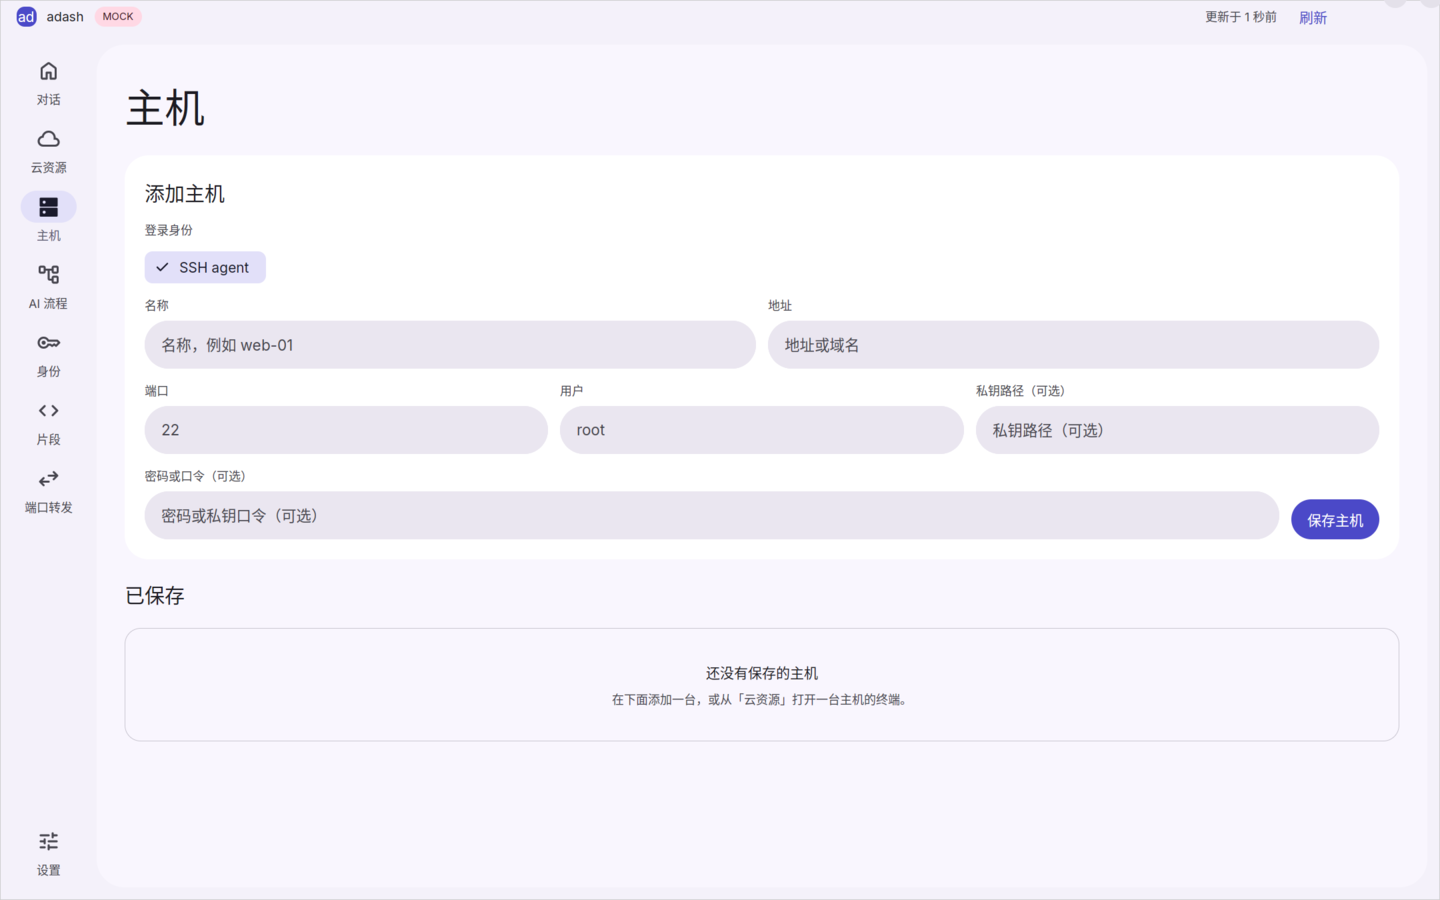
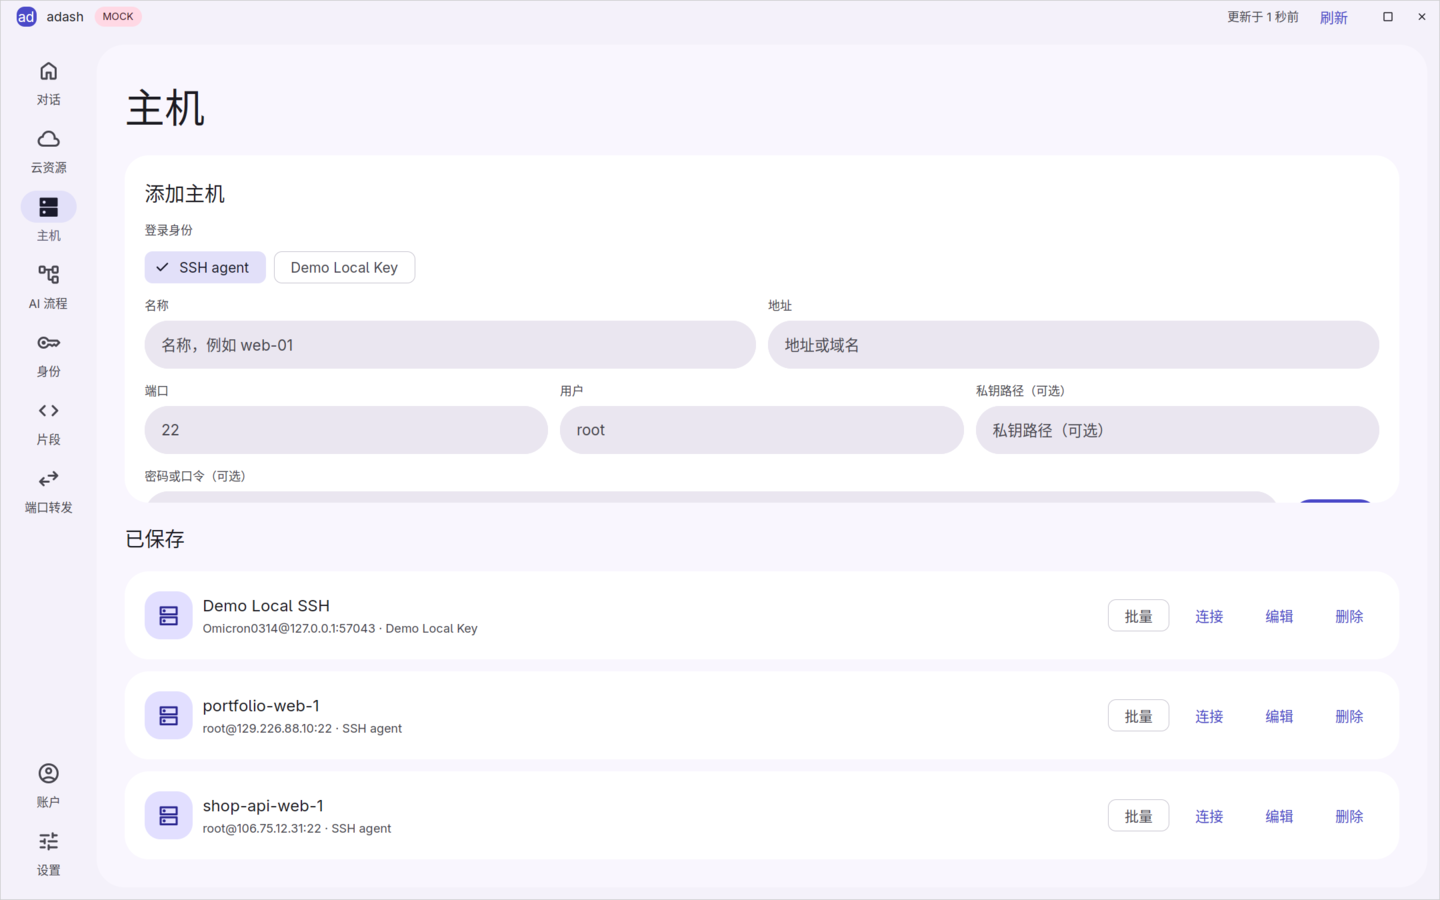
Add a loopback SSH demo service and seeded demo profiles
- start a temporary key-only sshd plus HTTP target on loopback
- seed a demo host, identity, snippets and port-forward rule
- document the shell/files/monitor demo flow

diff --git a/scripts/demo-ssh-service.py b/scripts/demo-ssh-service.py
@@ -1,0 +1,272 @@
+#!/usr/bin/env python3
+"""Start an isolated loopback SSH demo and seed adash's host profile.
+
+The service listens on 127.0.0.1 only, uses a generated temporary host key and
+an ed25519 demo identity, and executes in a dedicated demo directory. It does
+not modify system sshd/accounts. Stop it with --stop.
+"""
+from __future__ import annotations
+
+import argparse
+import base64
+import getpass
+import hashlib
+import json
+import os
+from pathlib import Path
+import shutil
+import signal
+import shlex
+import socket
+import subprocess
+import sys
+import time
+
+DEMO_ID = "demo-local"
+IDENTITY_ID = "demo-identity"
+FORWARD_ID = "demo-http"
+
+
+def data_dir() -> Path:
+    if os.environ.get("ADASH_DATA_DIR"):
+        return Path(os.environ["ADASH_DATA_DIR"])
+    if sys.platform == "win32":
+        base = Path(os.environ.get("LOCALAPPDATA", Path.home() / "AppData/Local"))
+    elif sys.platform == "darwin":
+        base = Path.home() / "Library/Application Support"
+    else:
+        base = Path(os.environ.get("XDG_DATA_HOME", Path.home() / ".local/share"))
+    return base / "adash"
+
+
+def which(name: str, env: str) -> str:
+    configured = os.environ.get(env)
+    found = shutil.which(configured or name)
+    if not found:
+        raise SystemExit(f"{name} not found; set {env} to its executable")
+    return str(Path(found).resolve())
+
+
+def free_port() -> int:
+    with socket.socket() as probe:
+        probe.bind(("127.0.0.1", 0))
+        return probe.getsockname()[1]
+
+
+def stop(pid: int) -> None:
+    try:
+        os.kill(pid, signal.SIGTERM)
+    except ProcessLookupError:
+        return
+    for _ in range(30):
+        try:
+            os.kill(pid, 0)
+        except ProcessLookupError:
+            return
+        time.sleep(0.05)
+
+
+def read_profile(path: Path) -> dict:
+    if not path.exists():
+        return {"hosts": {}, "identities": {}, "snippets": {}, "forwards": {}, "known_hosts": {}, "recent": []}
+    try:
+        data = json.loads(path.read_text())
+    except json.JSONDecodeError as error:
+        raise SystemExit(f"{path} is not valid JSON; refusing to overwrite it: {error}")
+    for key, value in {"hosts": {}, "identities": {}, "snippets": {}, "forwards": {}, "known_hosts": {}, "recent": []}.items():
+        data.setdefault(key, value)
+    return data
+
+
+def write_profile(path: Path, data: dict) -> None:
+    path.parent.mkdir(parents=True, exist_ok=True)
+    temporary = path.with_name(path.name + ".demo-tmp")
+    temporary.write_text(json.dumps(data, ensure_ascii=False, indent=2) + "\n")
+    os.chmod(temporary, 0o600)
+    temporary.replace(path)
+    os.chmod(path, 0o600)
+
+
+def fingerprint(public_key: Path) -> str:
+    parts = public_key.read_text().split()
+    digest = hashlib.sha256(base64.b64decode(parts[1])).digest()
+    return "SHA256:" + base64.b64encode(digest).decode().rstrip("=")
+
+
+def main() -> None:
+    parser = argparse.ArgumentParser(description=__doc__)
+    parser.add_argument("--stop", action="store_true", help="stop the demo sshd/http services")
+    parser.add_argument("--port", type=int, default=0, help="SSH port; 0 chooses a free loopback port")
+    args = parser.parse_args()
+    data = data_dir()
+    demo = data / "demo-ssh"
+    state_path = demo / "service.json"
+    if args.stop:
+        if state_path.exists():
+            try:
+                state = json.loads(state_path.read_text())
+                for key in ("sshd_pid", "http_pid"):
+                    if state.get(key):
+                        stop(int(state[key]))
+            except (json.JSONDecodeError, OSError):
+                pass
+            state_path.unlink(missing_ok=True)
+            print("adash demo SSH stopped")
+        else:
+            print("adash demo SSH is not running")
+        return
+    if state_path.exists():
+        try:
+            state = json.loads(state_path.read_text())
+            if state.get("sshd_pid") and Path(f"/proc/{state['sshd_pid']}").exists():
+                print(f"adash demo SSH already running on 127.0.0.1:{state.get('ssh_port')}")
+                print(f"open 主机 → {state.get('host_name', 'Demo Local SSH')}")
+                return
+        except (json.JSONDecodeError, OSError):
+            pass
+        state_path.unlink(missing_ok=True)
+
+    sshd = which("sshd", "ADASH_TEST_SSHD")
+    keygen = which("ssh-keygen", "ADASH_TEST_SSH_KEYGEN")
+    bash = shutil.which("bash") or shutil.which("sh")
+    shell = shutil.which("sh") or bash
+    sftp = os.environ.get("ADASH_TEST_SFTP_SERVER") or shutil.which("sftp-server")
+    if not sftp:
+        for candidate in [
+            Path(sshd).parent / "sftp-server",
+            Path(sshd).parent.parent / "lib/ssh/sftp-server",
+            Path(sshd).parent.parent / "lib/openssh/sftp-server",
+        ]:
+            if candidate.is_file():
+                sftp = str(candidate)
+                break
+    if not bash or not shell or not sftp:
+        raise SystemExit("bash/sh/sftp-server not found; set ADASH_TEST_SFTP_SERVER")
+    demo.mkdir(parents=True, exist_ok=True)
+    work = demo / "work"
+    for directory in (work, work / "logs"):
+        directory.mkdir(exist_ok=True)
+    (work / "README.md").write_text(
+        "# Demo workspace\n\n这是 adash 演示 SSH 服务的工作目录。\n\n"
+        "- 终端、SFTP、监控和片段都连接到 127.0.0.1 的临时 sshd\n"
+        "- 没有修改系统账号或系统 sshd\n"
+    )
+    (work / "logs" / "app.log").write_text(
+        "2026-11-01 09:00 demo service started\n"
+        "2026-11-01 09:01 GET /health 200\n"
+        "2026-11-01 09:02 order.created #1042\n"
+    )
+    (work / "config.example.json").write_text('{"port": 8080, "region": "cn-bj2", "debug": false}\n')
+    site = demo / "www"
+    site.mkdir(exist_ok=True)
+    (site / "index.html").write_text(
+        "<!doctype html><meta charset=utf-8><title>adash demo</title>"
+        "<h1>adash demo service</h1><p>This page is reached through the demo SSH port forward.</p>"
+    )
+    host_key = demo / "host_ed25519"
+    identity = demo / "identity_ed25519"
+    for path in (host_key,):
+        if not path.exists():
+            subprocess.run([keygen, "-q", "-t", "ed25519", "-N", "", "-f", str(path)], check=True)
+    if not identity.exists():
+        subprocess.run([keygen, "-q", "-t", "ed25519", "-N", "", "-f", str(identity)], check=True)
+    shutil.copyfile(str(identity) + ".pub", demo / "authorized_keys")
+    os.chmod(demo / "authorized_keys", 0o600)
+
+    port = args.port or free_port()
+    http_port = free_port()
+    rc = demo / "bashrc"
+    rc.write_text(
+        "PS1='demo@adash:\\w$ '\n"
+        "cd \"$ADASH_DEMO_WORK\" 2>/dev/null || true\n"
+        "printf '\\033[32madash demo shell\\033[0m  type help for demo commands\\n'\n"
+    )
+    dispatch = demo / "session.sh"
+    dispatch.write_text(
+        f"#!{shell}\n"
+        f"cd {shlex.quote(str(work))} || exit 1\n"
+        f"case \"$SSH_ORIGINAL_COMMAND\" in\n"
+        f"  internal-sftp*) exec {shlex.quote(str(sftp))} -d {shlex.quote(str(work))} ;;\n"
+        f"  \"\") exec {shlex.quote(str(bash))} --noprofile --rcfile {shlex.quote(str(rc))} -i ;;\n"
+        f"  *) exec {shlex.quote(str(shell))} -c \"$SSH_ORIGINAL_COMMAND\" ;;\n"
+        f"esac\n"
+    )
+    os.chmod(dispatch, 0o700)
+    config = demo / "sshd_config"
+    quote = lambda value: '"' + str(value).replace("\\", "\\\\").replace('"', '\\"') + '"'
+    config.write_text(f"""Port {port}
+ListenAddress 127.0.0.1
+HostKey {quote(host_key)}
+PidFile {quote(demo / 'sshd.pid')}
+AuthorizedKeysFile {quote(demo / 'authorized_keys')}
+StrictModes no
+UsePAM no
+PasswordAuthentication no
+KbdInteractiveAuthentication no
+PubkeyAuthentication yes
+AllowUsers {getpass.getuser()}
+AllowTcpForwarding yes
+Subsystem sftp internal-sftp
+ForceCommand {quote(dispatch)}
+LogLevel ERROR
+""")
+    log = (demo / "service.log").open("w")
+    sshd_process = subprocess.Popen(
+        [sshd, "-D", "-e", "-f", str(config)],
+        stdout=log, stderr=log, start_new_session=True,
+    )
+    time.sleep(0.4)
+    if sshd_process.poll() is not None:
+        raise SystemExit(f"temporary sshd failed; see {demo / 'service.log'}")
+    http_process = subprocess.Popen(
+        [sys.executable, "-m", "http.server", str(http_port), "--bind", "127.0.0.1", "--directory", str(site)],
+        stdout=subprocess.DEVNULL, stderr=subprocess.DEVNULL, start_new_session=True,
+    )
+    time.sleep(0.2)
+    if http_process.poll() is not None:
+        http_process = None
+        http_port = 0
+    profile_path = data / "hosts.json"
+    profile = read_profile(profile_path)
+    profile["identities"][IDENTITY_ID] = {
+        "id": IDENTITY_ID, "name": "Demo Local Key", "kind": "PrivateKey",
+        "key_path": str(identity),
+    }
+    profile["hosts"][DEMO_ID] = {
+        "id": DEMO_ID, "name": "Demo Local SSH", "address": "127.0.0.1",
+        "port": port, "username": getpass.getuser(), "identity": IDENTITY_ID,
+    }
+    profile["known_hosts"][f"[127.0.0.1]:{port}"] = fingerprint(host_key.with_name(host_key.name + ".pub"))
+    snippets = {
+        "demo-uptime": ("Demo: 运行时间", "uptime"),
+        "demo-files": ("Demo: 工作目录", "ls -la"),
+        "demo-disk": ("Demo: 磁盘", "df -h"),
+        "demo-health": ("Demo: 健康检查", "printf 'demo service: healthy\\n'"),
+    }
+    for snippet_id, (name, command) in snippets.items():
+        profile["snippets"].setdefault(snippet_id, {"id": snippet_id, "name": name, "command": command})
+    if http_process is not None:
+        bind_port = free_port()
+        profile["forwards"][FORWARD_ID] = {
+            "id": FORWARD_ID, "name": "Demo HTTP", "host_id": DEMO_ID,
+            "direction": "Local", "bind_port": bind_port,
+            "target_host": "127.0.0.1", "target_port": http_port,
+        }
+    profile["recent"] = [DEMO_ID] + [item for item in profile.get("recent", []) if item != DEMO_ID]
+    write_profile(profile_path, profile)
+    state_path.write_text(json.dumps({
+        "sshd_pid": sshd_process.pid,
+        "http_pid": http_process.pid if http_process else None,
+        "ssh_port": port,
+        "http_port": http_port,
+        "host_name": profile["hosts"][DEMO_ID]["name"],
+    }, indent=2) + "\n")
+    print(f"adash demo SSH ready on 127.0.0.1:{port}")
+    print(f"host: Demo Local SSH · workspace: {work}")
+    if http_process is not None:
+        print(f"port forward: Demo HTTP · local 127.0.0.1:{profile['forwards'][FORWARD_ID]['bind_port']} → 127.0.0.1:{http_port}")
+    print("open 主机 → Demo Local SSH → 连接；stop with --stop")
+
+
+if __name__ == "__main__":
+    main()

diff --git a/docs/DEMO.md b/docs/DEMO.md
@@ -107,6 +107,37 @@ Live 模式下确认会被明确拒绝，不会假装部署成功。
 3. 仓库分析只给清单摘要，不把源码或密钥送进模型
 4. Mock 与 Live 在标题栏和账户页都可见
 
+## 6. Shell / 身份 / 片段 / 端口转发（可选，60s）
+
+赛前或现场先启动服务，再打开 adash：
+
+```sh
+python3 scripts/demo-ssh-service.py
+```
+
+它会启动仅监听 `127.0.0.1` 的临时 sshd，并写入：
+
+- 主机：**Demo Local SSH**
+- 身份：**Demo Local Key**（演示私钥文件，不使用真实账号）
+- 片段：运行时间、工作目录、磁盘、健康检查
+- 端口转发：**Demo HTTP** → 演示静态站点
+
+点“主机 → Demo Local SSH → 连接”：
+
+- 终端显示演示 shell，工作目录是 `~/.local/share/adash/demo-ssh/work`
+- “文件”可浏览/编辑 README、日志和配置示例
+- “监控”显示本机 `/proc`/`df` 实际采样
+- “身份”“片段”“端口转发”页都有内容，可执行片段和启动转发
+- 终端里可直接试 `ls -la`、`cat logs/app.log`
+
+停止服务：
+
+```sh
+python3 scripts/demo-ssh-service.py --stop
+```
+
+注意：这是本机用户权限的回环演示服务，不是安全沙箱；不要把它当作生产 SSH 隔离方案。
+
 ## 备用 2 分钟版
 
 主页概览（20 资源）→ AI 流程 Shop API 回放 → 寻找省钱机会（¥500.80）→ 确认 Mock 释放 →
@@ -117,5 +148,8 @@ Live 模式下确认会被明确拒绝，不会假装部署成功。
 - AI 未配置：仍可演示资源、流程图、优化计划、账户页；仓库部署用 CLI 说明计划生成，
   或在赛前配置好 AI。
 - 网络不可用：用本机 `fixtures/demo/shop-api`，不要用 GitHub 地址。
-- SSH：可另开 `python3 scripts/ssh-smoke.py` 使用临时回环 sshd 展示真实终端/SFTP/监控，
-  不要把它当作主演示进程。
+- SSH：运行 `python3 scripts/demo-ssh-service.py`，会启动仅监听 127.0.0.1 的临时 sshd，
+  自动写入“Demo Local SSH”主机、Demo 私钥身份、4 个片段和 Demo HTTP 端口转发规则。
+  回到“主机”点 Demo Local SSH → 连接，即可展示终端、SFTP、监控、身份、片段和转发。
+  停止：`python3 scripts/demo-ssh-service.py --stop`。服务使用独立 demo 工作目录，
+  不会修改系统 sshd/账号；它仍是本机用户的 shell，不是安全隔离沙箱。

diff --git a/docs/ROADMAP.md b/docs/ROADMAP.md
@@ -109,6 +109,7 @@ catussh 的终端 / 文件 / 监控 / 身份 / 片段 / 端口转发全部保留
       上传/下载进度与取消；上传/下载拒绝覆盖已有目标，保存替换失败保留并恢复原文件。
 - [x] 主机编辑与身份重选、保存失败回滚、稳定的异步会话索引、重连、关闭时的数据保护；
       每条转发规则绑定主机，可并行运行多条，按规则单独停止。
+- [x] 可重复的演示 SSH 服务：回环临时 sshd + 演示主机/身份/片段/HTTP 转发，用于答辩展示。
 - [x] 文件/会话/指纹确认使用组件库 M3 模态框：Escape 关闭、焦点限制在弹窗内、关闭后返回原焦点；
       证据：`docs/screenshots/ssh-dialog.png`。
 - [x] 最终验收：`cargo fmt --all --check`、Clippy（workspace/all-targets/-D warnings）、

diff --git a/README.md b/README.md
@@ -92,7 +92,8 @@ npm --prefix agent/runtime test
 
 SSH 集成测试使用临时密钥与回环 sshd（需要 `sshd`、`ssh-keygen`；SFTP 用内置 `internal-sftp`）；
 SDK 测试使用回环模型端点与真实 Rust CLI，不调用付费模型或云写接口。
-原生窗口可用 `python3 scripts/ssh-smoke.py --capture /tmp/adash-ssh.png` 检查，退出后清理临时服务与数据。
+SSH 演示：`python3 scripts/demo-ssh-service.py` 会启动回环临时 sshd，并写入 Demo 主机、身份、片段和 HTTP 转发；
+`python3 scripts/demo-ssh-service.py --stop` 停止。
 
 ## 路径与开发验证
 

diff --git a/docs/screenshots/README.md b/docs/screenshots/README.md
@@ -27,6 +27,9 @@
 | 远程目录确认（M3 模态框） | [ssh-dialog.png](ssh-dialog.png) | 1440×900 |
 | AI 未配置时的本地应答 | [agent-fallback.png](agent-fallback.png) | 1440×900 |
 
+SSH 相关页面截图使用 `scripts/demo-ssh-service.py` 写入的临时回环演示主机；密钥/路径只在本机临时数据中。
+
+
 复现（脚本自行构建测试版；niri 与 ImageMagick 为可选适配器）：
 
 ```sh
